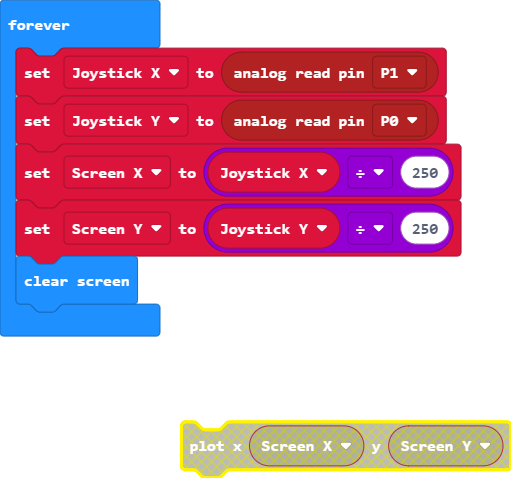
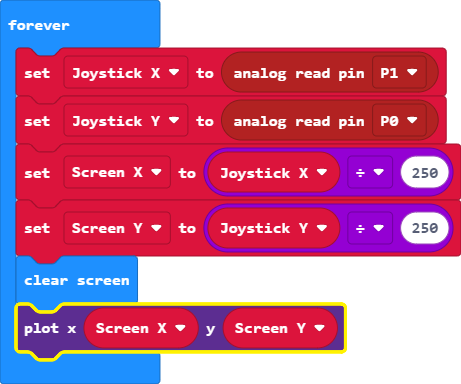
Update main.blocks, main.ts

diff --git a/main.ts b/main.ts
@@ -8,4 +8,5 @@ basic.forever(function () {
     Screen_X = Joystick_X / 250
     Screen_Y = Joystick_Y / 250
     basic.clearScreen()
+    led.plot(Screen_X, Screen_Y)
 })
